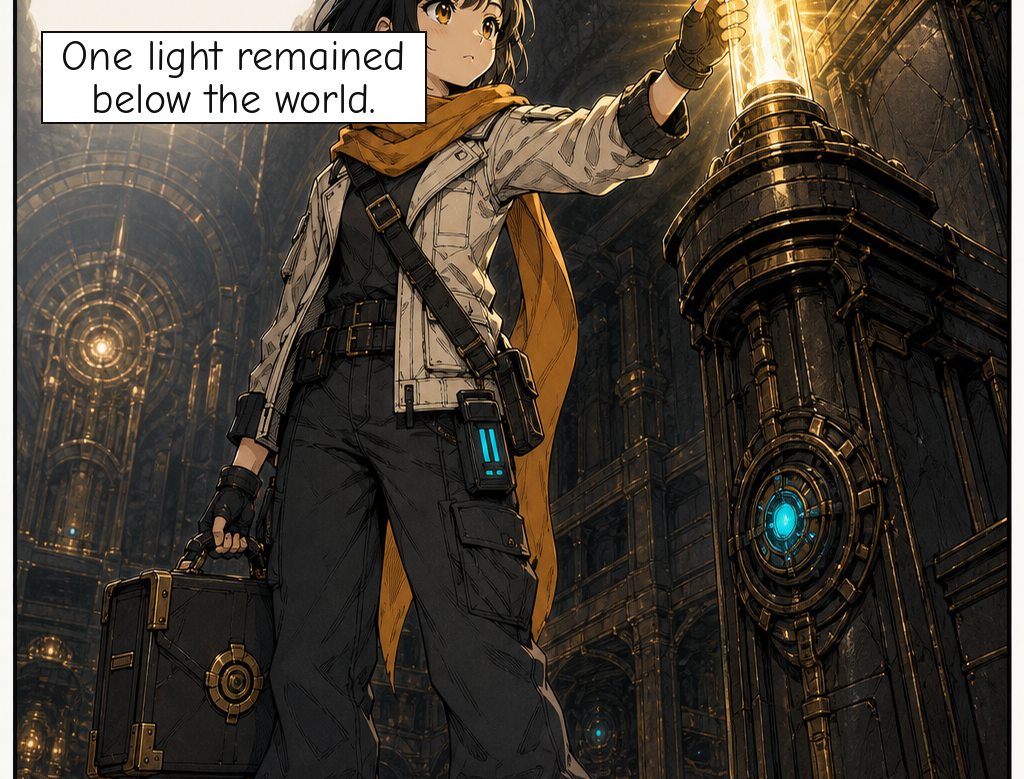
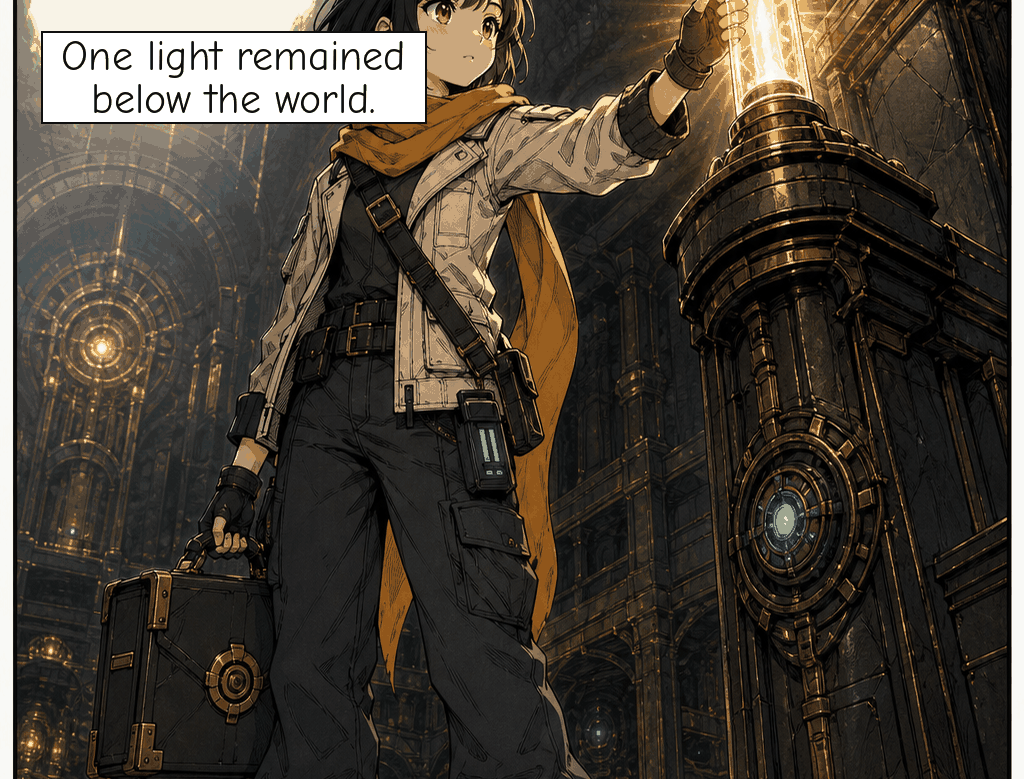
chore: reduce tracked binary sample weight (#180)
* chore: reduce tracked sample binary weight

* test: scope sample raster budget to sample assets

* test: validate every tracked sample raster

---------

diff --git a/tests/test_sample_assets.py b/tests/test_sample_assets.py
@@ -6,15 +6,51 @@ import tempfile
 import unittest
 from pathlib import Path
 
+from PIL import Image
+
 
 ROOT = Path(__file__).resolve().parents[1]
 SAMPLE = ROOT / "samples/sunlight-courier"
 MATERIALIZER = ROOT / "scripts/materialize_sample.py"
+MAX_TRACKED_RASTER_BYTES = 22 * 1024 * 1024
+def tracked_sample_rasters() -> tuple[Path, ...]:
+    compatibility = {
+        SAMPLE / "panels/raw",
+        SAMPLE / "panels/clean",
+    }
+    return tuple(
+        sorted(
+            path
+            for path in SAMPLE.glob("**/*.png")
+            if path.parent not in compatibility
+        )
+    )
+
+
+def expected_sample_raster_size(path: Path) -> tuple[int, int]:
+    relative = path.relative_to(SAMPLE)
+    if relative.parts[0] == "pages":
+        return (1600, 2400)
+    if relative.parts[0] == "panels" and relative.name in {"clean.png", "lettered.png"}:
+        return (1024, 779)
+    if relative == Path("references/characters/mira.png"):
+        return (1024, 1536)
+    raise AssertionError(f"unclassified tracked sample raster: {relative}")
+
 
 from tests.support import make_symlink  # noqa: E402
 
 
 class SampleAssetTests(unittest.TestCase):
+    def run_materializer(self) -> subprocess.CompletedProcess[str]:
+        return subprocess.run(
+            [sys.executable, str(MATERIALIZER), str(self.project)],
+            cwd=ROOT,
+            capture_output=True,
+            text=True,
+            check=False,
+        )
+
     def setUp(self):
         self.temporary_directory = tempfile.TemporaryDirectory()
         self.addCleanup(self.temporary_directory.cleanup)
@@ -24,14 +60,16 @@ class SampleAssetTests(unittest.TestCase):
         for relative in ("panels/raw", "panels/clean"):
             shutil.rmtree(self.project / relative, ignore_errors=True)
 
-    def run_materializer(self) -> subprocess.CompletedProcess[str]:
-        return subprocess.run(
-            [sys.executable, str(MATERIALIZER), str(self.project)],
-            cwd=ROOT,
-            capture_output=True,
-            text=True,
-            check=False,
-        )
+    def test_tracked_sample_rasters_stay_within_weight_budget(self):
+        total = sum(path.stat().st_size for path in tracked_sample_rasters())
+
+        self.assertLessEqual(total, MAX_TRACKED_RASTER_BYTES)
+        for path in tracked_sample_rasters():
+            with Image.open(path) as image:
+                self.assertEqual("PNG", image.format)
+                self.assertEqual("RGB", image.mode)
+                self.assertEqual(expected_sample_raster_size(path), image.size)
+                self.assertNotIn("transparency", image.info)
 
     def test_cli_materializes_byte_identical_compatibility_panels(self):
         result = self.run_materializer()

diff --git a/samples/README.md b/samples/README.md
@@ -29,8 +29,9 @@ claim, and mixing them would let placeholder geometry masquerade as illustration
 
 `sunlight-courier` contains real generated artwork from an image capability, and
 its final PDF and page PNGs are tracked in Git. This is the tier to look at for
-visual output. It is also the expensive tier: its rasters dominate the repository's
-sample weight, which is why there is exactly one of them.
+visual output. The canonical clean panels and character reference remain
+full-fidelity source art; tracked lettered panels and page PNGs are compact,
+opaque-RGB delivery derivatives that preserve their published dimensions.
 
 Its canonical clean panel art is tracked once at `panels/<panel-id>/clean.png`.
 Raw and legacy-clean compatibility copies are generated locally and ignored by
@@ -140,6 +141,9 @@ Generated rasters are large and compress poorly, so this directory keeps exactly
 one tracked live-generated project and derives everything else:
 
 - Tracked binaries are limited to the single live-generated example.
+- The live example keeps canonical clean/reference art at source fidelity, while
+  its tracked lettered/page delivery rasters use compact opaque-RGB PNG encoding
+  and stay under the sample raster budget enforced by `tests/test_sample_assets.py`.
 - Deterministic examples track no rasters at all; a full four-page build is about
   2.5 MB and is produced locally in seconds.
 - No example requires a provider call, a credential, or a downloaded asset to

diff --git a/samples/sunlight-courier/qa/report.md b/samples/sunlight-courier/qa/report.md
@@ -43,8 +43,8 @@ No unresolved warnings.
[7 lines of base64/hex data omitted]
 - Reference `references/characters/mira.png` — valid: yes
 - `exports/sunlight-courier.pdf` — PDF readable: yes; pages: 2
 

diff --git a/samples/sunlight-courier/README.md b/samples/sunlight-courier/README.md
@@ -17,4 +17,7 @@ python scripts/materialize_sample.py
 ```
 
 The command overwrites compatibility copies byte-for-byte from the canonical
-panels. Final lettered panels, pages, QA evidence, and the PDF remain tracked.
+panels. Final lettered panels and page PNGs remain tracked as visually reviewed
+delivery derivatives, encoded as opaque RGB PNGs to keep the clone lightweight;
+the canonical clean panels and character reference remain full-fidelity source
+art. The PDF and QA evidence remain tracked and hash-bound to those derivatives.
